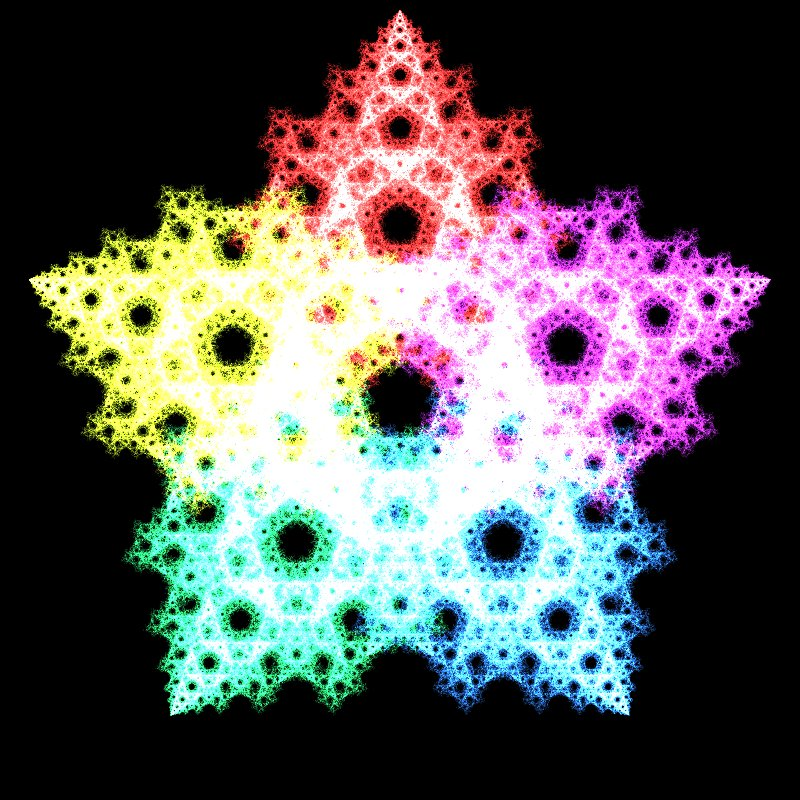
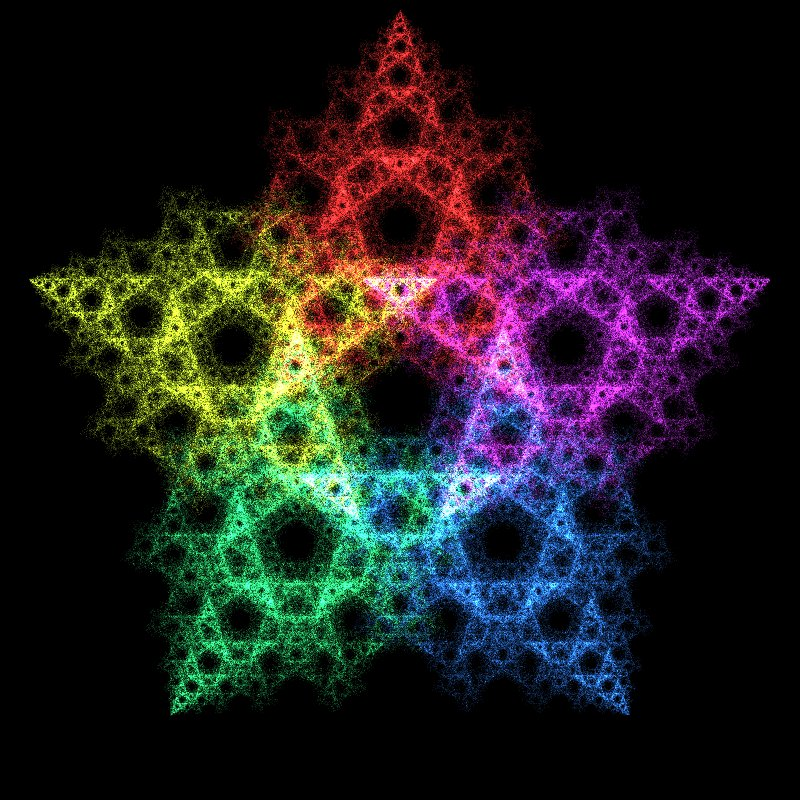
adding spike

diff --git a/Drawing_with_code/t41 spike.py b/Drawing_with_code/t41 spike.py
@@ -1,0 +1,39 @@
+from turtle import *
+# YouTube/Sierra_wild_3d
+
+# setup
+pensize(3)
+speed(0)
+bgcolor("black")
+pencolor("#0AF7FF")
+
+setup(1.0,1.0)
+
+# functions
+
+def shape(a, b, c, d, e, f):
+    forward(a)
+    left(b)
+    forward(c)
+    right(d)
+    forward(e) # end of the spike
+    pekDot(c, f)
+    left(d*2)
+    forward(e)
+    right(d)
+    forward(c)
+
+def pekDot(c, f):
+    penup()
+    right(10)
+    forward(c)
+    dot(f)
+    backward(c)
+    left(10)
+    pendown()
+
+for i in range(13):
+    shape(a=200, b=90, c=40, d=80, e=100, f=20)
+    left(120)
+
+exitonclick() # end script

diff --git a/Drawing_with_code/t41.py b/Drawing_with_code/t41.py
@@ -1,0 +1,39 @@
+from turtle import *
+# YouTube/Sierra_wild_3d
+
+# setup
+pensize(3)
+speed(0)
+bgcolor("black")
+pencolor("#0AF7FF")
+
+setup(1.0,1.0)
+
+# functions
+
+def shape(a, b, c, d, e, f):
+    forward(a)
+    left(b)
+    forward(c)
+    right(d)
+    forward(e) # end of the spike
+    pekDot(c, f)
+    left(d*2)
+    forward(e)
+    right(d)
+    forward(c)
+
+def pekDot(c, f):
+    penup()
+    right(10)
+    forward(c)
+    dot(f)
+    backward(c)
+    left(10)
+    pendown()
+
+for i in range(13):
+    shape(a=200, b=90, c=40, d=80, e=100, f=20)
+    left(120)
+
+exitonclick() # end script
